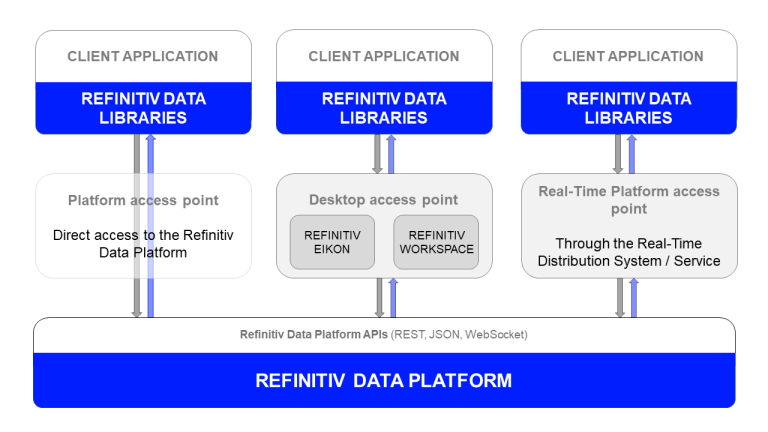
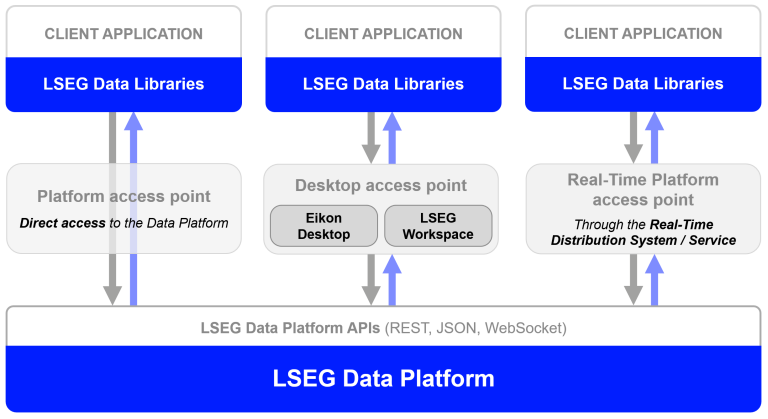
Update terminology in documentation and replace RDP Library with Data Library

diff --git a/Article.md b/Article.md
@@ -146,12 +146,14 @@ The [Data Library for TypeScript](https://developers.lseg.com/en/api-catalog/ref
 
 ![Figure-1](images/rdlib_image.png "Data Library Diagram") 
 
-The RDP Library are available in the following programming languages:
+The Libraries are available in the following programming languages:
+
 - [Python](https://developers.lseg.com/en/api-catalog/refinitiv-data-platform/refinitiv-data-library-for-python)
 - [TypeScript/JavaScript](https://developers.lseg.com/en/api-catalog/refinitiv-data-platform/refinitiv-data-library-for-typescript)
 - [.NET](https://developers.lseg.com/en/api-catalog/refinitiv-data-platform/refinitiv-data-library-for--net)
 
-For more deep detail regarding the RDP Libraries, please refer to the following articles and tutorials:
+For more deep detail regarding the Data Library for Python version1, please refer to the following articles and tutorials:
+
 - [Quickstart](https://developers.lseg.com/en/api-catalog/refinitiv-data-platform/refinitiv-data-library-for-typescript/quick-start).
 - [Documentation](https://developers.lseg.com/en/api-catalog/refinitiv-data-platform/refinitiv-data-library-for-typescript/documentation).
 - [Tutorials](https://developers.lseg.com/en/api-catalog/refinitiv-data-platform/refinitiv-data-library-for-typescript/tutorials).

diff --git a/README.md b/README.md
@@ -50,12 +50,14 @@ The [Data Library for TypeScript](https://developers.lseg.com/en/api-catalog/ref
 
 ![Figure-1](images/rdlib_image.png "Data Library Diagram") 
 
-The RDP Library are available in the following programming languages:
+The Libraries are available in the following programming languages:
+
 - [Python](https://developers.lseg.com/en/api-catalog/refinitiv-data-platform/refinitiv-data-library-for-python)
 - [TypeScript/JavaScript](https://developers.lseg.com/en/api-catalog/refinitiv-data-platform/refinitiv-data-library-for-typescript)
 - [.NET](https://developers.lseg.com/en/api-catalog/refinitiv-data-platform/refinitiv-data-library-for--net)
 
-For more deep detail regarding the RDP Libraries, please refer to the following articles and tutorials:
+For more deep detail regarding the Data Library for Python version1, please refer to the following articles and tutorials:
+
 - [Quickstart](https://developers.lseg.com/en/api-catalog/refinitiv-data-platform/refinitiv-data-library-for-typescript/quick-start).
 - [Documentation](https://developers.lseg.com/en/api-catalog/refinitiv-data-platform/refinitiv-data-library-for-typescript/documentation).
 - [Tutorials](https://developers.lseg.com/en/api-catalog/refinitiv-data-platform/refinitiv-data-library-for-typescript/tutorials).
